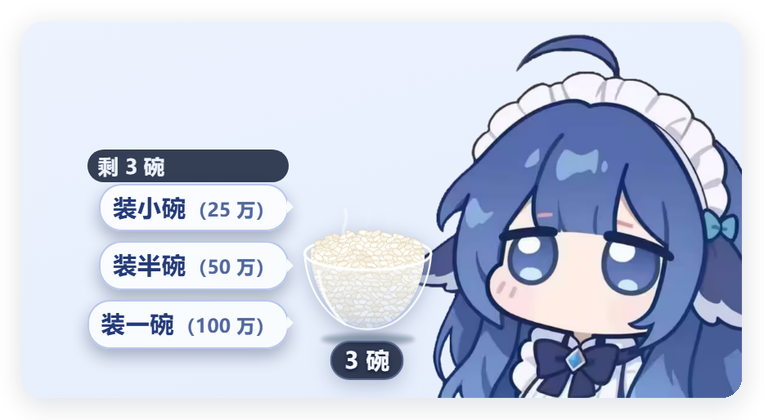
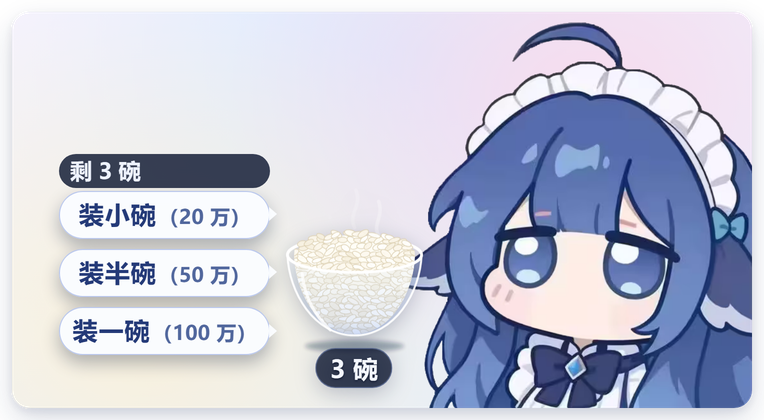
feat: 小碗改 20 万 token，装饭气泡等宽对齐，空碗标签改「碗空了......」 (v0.5.9)

Changed region(s): [[0.0301, 0.031, 0.9935, 0.9905]]

diff --git a/assets/client.js b/assets/client.js
@@ -42,12 +42,12 @@
   ];
   var GRAIN_FILLS = ['#fffdf6', '#fbf6e9', '#fdf9ef', '#f7f0df', '#fffefb'];
 
-  // 1 碗 = 100 万 token；最多显示 5 碗；装饭菜单：小碗 25 万 / 半碗 50 万 / 一碗 100 万。
+  // 1 碗 = 100 万 token；最多显示 5 碗；装饭菜单：小碗 20 万 / 半碗 50 万 / 一碗 100 万。
   var DEFAULT_CONFIG = {
     tokensPerBowl: 1000000,
     maxBowls: 5,
     feedOptions: [
-      { label: '小碗', tokens: 250000 },
+      { label: '小碗', tokens: 200000 },
       { label: '半碗', tokens: 500000 },
       { label: '一碗', tokens: 1000000 }
     ],
@@ -1255,7 +1255,7 @@
   function setLabel(remain) {
     if (!rt.els || !rt.els.label) return;
     var text = '';
-    if (rt.settings.label !== false) text = remain > 0 ? bowlText(remain) : (rt.starving ? '饿坏了…' : '没饭了');
+    if (rt.settings.label !== false) text = remain > 0 ? bowlText(remain) : (rt.starving ? '饿坏了…' : '碗空了......');
     rt.els.label.textContent = text;
     var box = rt.els.label.parentNode;
     if (box) box.hidden = !text;
@@ -1345,7 +1345,7 @@
     if (!rt.els) return;
     var remaining = liveRemain();
     var tank = tankOf(activeSid());
-    var html = '<div class="dshwr-set-title"><span class="dshwr-unflip">白饭预言家</span><small>v0.5.8</small></div>';
+    var html = '<div class="dshwr-set-title"><span class="dshwr-unflip">白饭预言家</span><small>v0.5.9</small></div>';
     html += setRow('begging', '没饭时讨饭', rt.settings.begging);
     html += setRow('eat', '吃饭动作（嘴 / 嚼）', rt.settings.eat);
     html += setRow('sound', '吃饭音效', rt.settings.sound);

diff --git a/assets/client.css b/assets/client.css
@@ -424,7 +424,8 @@
 .dshwr-menu-grid {
   display: flex;
   flex-direction: column;
-  align-items: flex-end;
+  /* 三个选项统一宽度：以最宽的「一碗（100 万）」为准，左右边缘都对齐 */
+  align-items: stretch;
   gap: 0.34em;
 }
 .dshwr-tier {
@@ -432,6 +433,7 @@
   pointer-events: auto;
   display: inline-flex;
   align-items: baseline;
+  justify-content: center;
   gap: 0.08em;
   padding: 0.28em 0.5em 0.32em;
   border-radius: 0.95em;

diff --git a/demo/index.html b/demo/index.html
@@ -39,7 +39,7 @@
   <h1>白饭预言家 · 本地预览</h1>
   <p>模拟宿主「小鲸鱼记账挂件」的 DOM；点右下角饭碗就能装饭。</p>
   <div class="row">
-    <button data-feed="250000">装小碗（25 万）</button>
+    <button data-feed="200000">装小碗（20 万）</button>
     <button data-feed="500000">装半碗（50 万）</button>
     <button data-feed="1000000">装一碗（100 万）</button>
   </div>

diff --git a/README.md b/README.md
@@ -29,8 +29,8 @@
 | | 说明 |
 | --- | --- |
 | 宿主 | 「DSH 小鲸鱼记账挂件」`dsh-whale-widget`（右下角余额鲸鱼）。本插件是它的附加层，不是替代品。 |
-| 玩法 | 每个对话有自己的一锅饭：点碗装小碗（25 万 token）/ 半碗（50 万）/ 一碗（100 万）；每轮对话按真实 token 消耗吃米饭；每轮结束气泡报账「这轮吃了多少 · 还剩多少」；没饭了先讨饭 10 次，再等 10 分钟会变成「饿坏了」（不喂就一直灰着，补饭才恢复）。 |
-| 画面 | 透明玻璃碗装着**一整块煮熟的米饭**（米粒只是表面纹理）；主碗 + 最多 4 个碗位显示总库存（最多 5 碗，超过继续记账、UI 不变；装饭菜单：小碗 25 万 token = 1/4 碗、半碗 50 万 = 0.5 碗、一碗 100 万）。吃饭时鲸鱼**咧嘴（一颗小虎牙）**、木勺舀饭、饭团飞进嘴里、嚼两下，配更可爱的舀饭 / 碰碗 / 咀嚼音效（WebAudio 现场合成）。 |
+| 玩法 | 每个对话有自己的一锅饭：点碗装小碗（20 万 token）/ 半碗（50 万）/ 一碗（100 万）；每轮对话按真实 token 消耗吃米饭；每轮结束气泡报账「这轮吃了多少 · 还剩多少」；没饭了先讨饭 10 次，再等 10 分钟会变成「饿坏了」（不喂就一直灰着，补饭才恢复）。 |
+| 画面 | 透明玻璃碗装着**一整块煮熟的米饭**（米粒只是表面纹理）；主碗 + 最多 4 个碗位显示总库存（最多 5 碗，超过继续记账、UI 不变；装饭菜单：小碗 20 万 token = 1/5 碗、半碗 50 万 = 0.5 碗、一碗 100 万）。吃饭时鲸鱼**咧嘴（一颗小虎牙）**、木勺舀饭、饭团飞进嘴里、嚼两下，配更可爱的舀饭 / 碰碗 / 咀嚼音效（WebAudio 现场合成）。 |
 | 记录 | 每个对话（DSH session）独立记账：已装 / 已吃 / 剩余；切换对话各吃各的；刷新页面保留。 |
 | 不是 | 不是饱食度养成、不做等级/记忆、不自动估算、不读对话内容、不联网上传。 |
 
@@ -68,7 +68,7 @@ dsh plugin --profile web add link:C:/path/to/dsh-whale-ricebowl
 
 ## 使用
 
-1. **装饭**：点饭碗 → 装小碗（25 万 token）/ 半碗（50 万）/ 一碗（100 万）。对话开始前也可以先装：这时饭先存在「待装饭」里，第一轮对话开始时自动倒进这个对话的锅。
+1. **装饭**：点饭碗 → 装小碗（20 万 token）/ 半碗（50 万）/ 一碗（100 万）。对话开始前也可以先装：这时饭先存在「待装饭」里，第一轮对话开始时自动倒进这个对话的锅。
 2. **每轮**：DSH `turn/start` 后鲸鱼开始干活；真实 token 到账时它张嘴吃饭，米饭一点点变少。
 3. **每轮结束**：`turn/end` 后气泡报账，例如「这轮吃了 5.4K · 剩 3 碗」；短回合也会补演至少一口再报账。
 4. **多碗**：1 碗 = 100 万 token；主碗 + 最多 4 个碗位 = 最多显示 5 碗（碗位和主碗**放在同一条桌面水平线上**，排在主碗**左侧**、向左延伸；打开装饭菜单时会自动隐藏）；超过 5 碗继续记账但 UI 不变；下方标签显示剩余碗数。
@@ -99,7 +99,7 @@ v0.5.0 把吃饭动画改成了**串行咀嚼队列**：
 
 | 文件 | 改什么 |
 | --- | --- |
-| `assets/config.json` | `tokensPerBowl`（1 碗 = 多少 token，默认 100 万）、`maxBowls`（最多显示几碗，默认 5）、`feedOptions`（装饭菜单档位：小碗 25 万 / 半碗 50 万 / 一碗 100 万）、`biteTokens`（每口 token 粒度）、`begTimes`（讨饭次数，默认 10）、`starveDelayMs`（讨饭完到「饿坏了」的等待，默认 10 分钟）、`starveIntervalMs`（饿坏了之后的气泡间隔）、轮询 / 报账时长、嘴部锚点 `mouth` |
+| `assets/config.json` | `tokensPerBowl`（1 碗 = 多少 token，默认 100 万）、`maxBowls`（最多显示几碗，默认 5）、`feedOptions`（装饭菜单档位：小碗 20 万 / 半碗 50 万 / 一碗 100 万）、`biteTokens`（每口 token 粒度）、`begTimes`（讨饭次数，默认 10）、`starveDelayMs`（讨饭完到「饿坏了」的等待，默认 10 分钟）、`starveIntervalMs`（饿坏了之后的气泡间隔）、轮询 / 报账时长、嘴部锚点 `mouth` |
 | `assets/lines.json` | 台词池（讨饭 / 装饭 / 首次引导） |
 | `lib/state.js` | 计费口径 `COUNT_CACHE_READ` |
 

diff --git a/README-En.md b/README-En.md
@@ -27,7 +27,7 @@ Eating close-up (whale art belongs to the host widget): a grin with one little f
 | | |
 | --- | --- |
 | Host | The DSH whale balance widget `dsh-whale-widget`. This plugin is an add-on, not a replacement. |
-| Gameplay | Each conversation has its own rice pot: click the bowl to load a small bowl (250K tokens) / half bowl (500K) / one bowl (1M). Every turn eats real tokens; at turn end a bubble reports "ate X · Y bowls left". At zero it begs 10 times, then after 10 quiet minutes turns into a starving whale (and stays gray until fed). |
+| Gameplay | Each conversation has its own rice pot: click the bowl to load a small bowl (200K tokens) / half bowl (500K) / one bowl (1M). Every turn eats real tokens; at turn end a bubble reports "ate X · Y bowls left". At zero it begs 10 times, then after 10 quiet minutes turns into a starving whale (and stays gray until fed). |
 | Visuals | Transparent glass bowl with a solid mound of cooked rice (grain texture on the surface). Main bowl + up to 4 bowl slots show the stock (max 5 bowls on screen; beyond that the ledger keeps counting while the UI stays unchanged). The whale grins (one fang), a wooden spoon scoops, a rice ball flies into its mouth, plus cuter synthesized scoop / clink / chew sounds (WebAudio, no audio files). |
 | Ledger | Per conversation (DSH session): loaded / eaten / remaining. Switching conversations switches pots; survives page refresh. |
 | Not | Not a pet-raising game, no levels or memory, no auto-estimation, does not read conversation content, no network upload. |
@@ -50,7 +50,7 @@ Desktop (Electron): the host HTML is served statically, so this plugin also regi
 
 ## Usage
 
-1. **Load rice**: click the bowl → load a small bowl (250K tokens) / half bowl (500K) / one bowl (1M). You can also load before a conversation — it is parked as "pending rice" and poured into the next conversation's pot when its first turn starts.
+1. **Load rice**: click the bowl → load a small bowl (200K tokens) / half bowl (500K) / one bowl (1M). You can also load before a conversation — it is parked as "pending rice" and poured into the next conversation's pot when its first turn starts.
 2. **Each turn**: after `turn/start`, real usage makes the whale eat; the rice level drops.
 3. **Turn end**: a bubble reports e.g. "ate 5.4K · 3 bowls left". Short turns are replayed so at least one bite is always shown before the report.
 4. **Bowls**: 1 bowl = 1,000,000 tokens; main bowl + 4 slots = 5 visible bowls max (slots sit on the **same table line** as the main bowl, to its **left**, and hide while the feed menu is open). More than 5 bowls keeps counting but the UI stays the same.
@@ -79,7 +79,7 @@ v0.5.0 uses a **serial chewing queue**:
 
 | File | What |
 | --- | --- |
-| `assets/config.json` | `tokensPerBowl` (default 1,000,000), `maxBowls` (5), `feedOptions` (small bowl 250K / half 500K / one 1M), `biteTokens`, `begTimes` (default 10), `starveDelayMs` (10 min), `starveIntervalMs`, polling / report timings, mouth anchor |
+| `assets/config.json` | `tokensPerBowl` (default 1,000,000), `maxBowls` (5), `feedOptions` (small bowl 200K / half 500K / one 1M), `biteTokens`, `begTimes` (default 10), `starveDelayMs` (10 min), `starveIntervalMs`, polling / report timings, mouth anchor |
 | `assets/lines.json` | line pools (begging / feeding / onboarding) |
 | `lib/state.js` | accounting toggle `COUNT_CACHE_READ` |
 

diff --git a/docs/v0.5.0-spec.md b/docs/v0.5.0-spec.md
@@ -15,7 +15,7 @@
 | 单位 | 1 碗 = **1,000,000 token**（`config.tokensPerBowl`，可调） |
 | 库存 | 每个对话（`sessionId`）独立：`allocated`（已装饭）/ `consumed`（已吃）/ `remaining = allocated - consumed` |
 | 多碗 | 最多显示 **5 碗**（`maxBowls=5`，即 500 万）；装满 5 碗后继续加 token，**UI 不变**，数字标签显示真实剩余 |
-| 装饭 | 菜单：小碗（25 万）/ 半碗（50 万）/ 一碗（100 万）；对话中可随时添饭（v0.5.2 起） |
+| 装饭 | 菜单：小碗（20 万）/ 半碗（50 万）/ 一碗（100 万）；对话中可随时添饭（v0.5.2 起） |
 | 消耗 | 回合结束时按本轮 `actualTokens` 扣饭：米饭减少 + 气泡报告「本轮吃了 X · 剩 Y（Z%）」 |
 | 讨饭 | `remaining <= 0` 时**自动**进入讨饭状态（不管是否在跑） |
 | 术语 | 装饭 / 添饭 / 吃了 / 剩饭 / 吃完了 / 讨饭；**不再出现** 预测 / 押注 / 结算 / 超了 / 省下 |

diff --git a/CHANGELOG.md b/CHANGELOG.md
@@ -1,5 +1,12 @@
 # Changelog
 
+## 0.5.9 — 2026-10-18
+
+* 装小碗从 25 万 token 改成 **20 万**（半碗 50 万 / 一碗 100 万不变，1 碗 = 100 万 token 的显示口径不变）。
+* 装饭菜单三个选项气泡改成**等宽对齐**：以最宽的「一碗（100 万）」为准，三个气泡左右边缘、高度和右侧小尾巴都对齐，文字居中。
+* 碗下面的空碗标签从「没饭了」改成「**碗空了......**」。
+* README / README-En / tech-notes / 装饭菜单截图同步。
+
 ## 0.5.8 — 2026-10-18
 
 * 修「饿坏了」会自己复活：以前不喂饭，只要跑一个新回合（或刷新页面），灰色和「饿坏了…」标签就被清掉，又从头讨饭 10 次 + 等 10 分钟。
